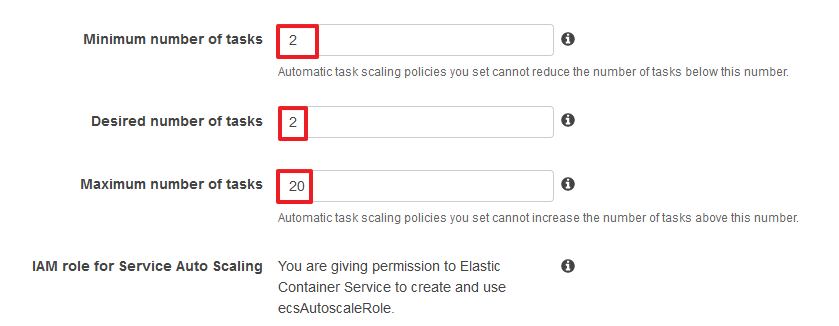
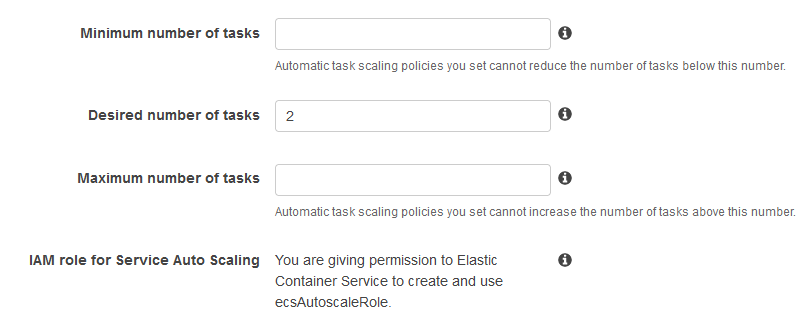
AWS

diff --git a/ECS/Auto Scaling/README.md b/ECS/Auto Scaling/README.md
@@ -3,8 +3,18 @@
 ![Enable Service Auto Scaling](https://github.com/IlIllIlllIllll/AWS/raw/main/ECS/Auto%20Scaling/img/image-1.png)
 
 ![Setting Service Auto Scaling](https://github.com/IlIllIlllIllll/AWS/raw/main/ECS/Auto%20Scaling/img/image-2.png)
+Minimum number of tasks : Task의 최소 개수를 정의합니다.
+Desired number of tasks : 동작시킬 Task의 개수를 정의합니다.
+Maximum number of tasks : Task의 최종 개수를 정의합니다
+IAM role for Service Auto Scaling : Service Auto Scaling을 위한 IAM Role을 생성합니다.
+> 처음 IAM Role for Service Auto Scaling생성 시 자동으로 생성됩니다.
+
+<br>
 
 ![Setting Service Auto Scaling](https://github.com/IlIllIlllIllll/AWS/raw/main/ECS/Auto%20Scaling/img/image-3.png)
+Scaling policy type : Scaling 방식을 정의합니다.
+- Target Tracking : ECS Service의 사용량에 따라 Scaling을 정의합니다.
+- Step Scaling : CloudWatch Alarm을 통하여 해당 통계값이 어떠한 조건일 때 Scaling 할 것인지를 정의합니다.
 
 > ![Explain Service Auto Scaling](https://github.com/IlIllIlllIllll/AWS/raw/main/ECS/Auto%20Scaling/img/image-4.png) <br>
 ![Explain Service Auto Scaling](https://github.com/IlIllIlllIllll/AWS/raw/main/ECS/Auto%20Scaling/img/image-5.png) <br>

diff --git a/ECS/Auto Scaling/Target-Tracking/README.md b/ECS/Auto Scaling/Target-Tracking/README.md
@@ -1,0 +1,7 @@
+### ECS - Auto Scaling - Target Tracking
+---
+![Enable Service Auto Scaling](https://github.com/IlIllIlllIllll/AWS/raw/main/ECS/Auto%20Scaling/Target-Tracking/img/image-1.png)
+
+![Setting Service Auto Scaling](https://github.com/IlIllIlllIllll/AWS/raw/main/ECS/Auto%20Scaling/Target-Tracking/img/image-2.png)
+
+![Setting Service Auto Scaling](https://github.com/IlIllIlllIllll/AWS/raw/main/ECS/Auto%20Scaling/Target-Tracking/img/image-3.png)
